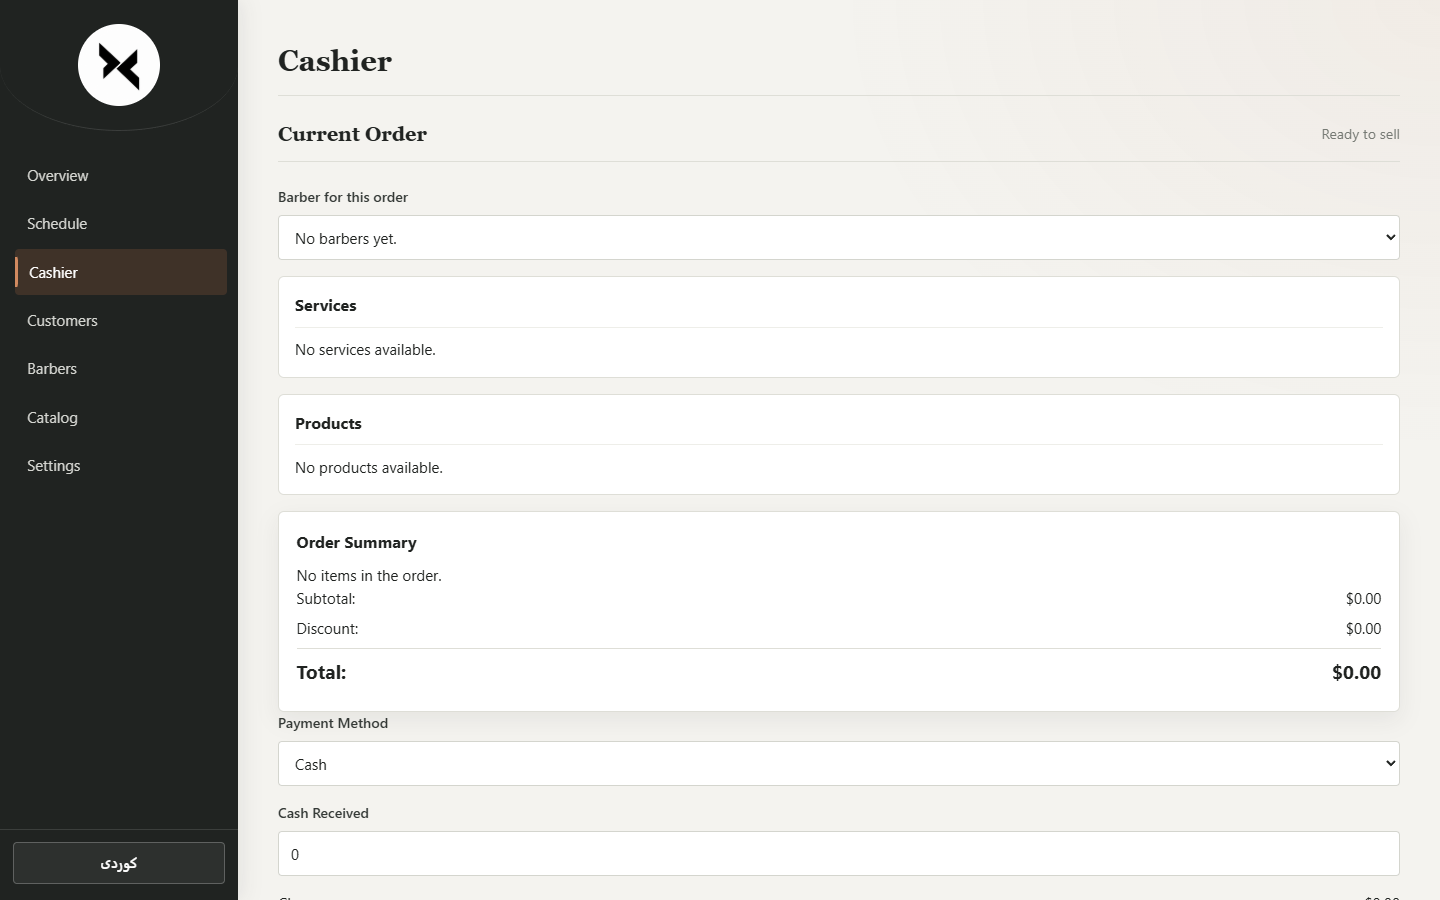
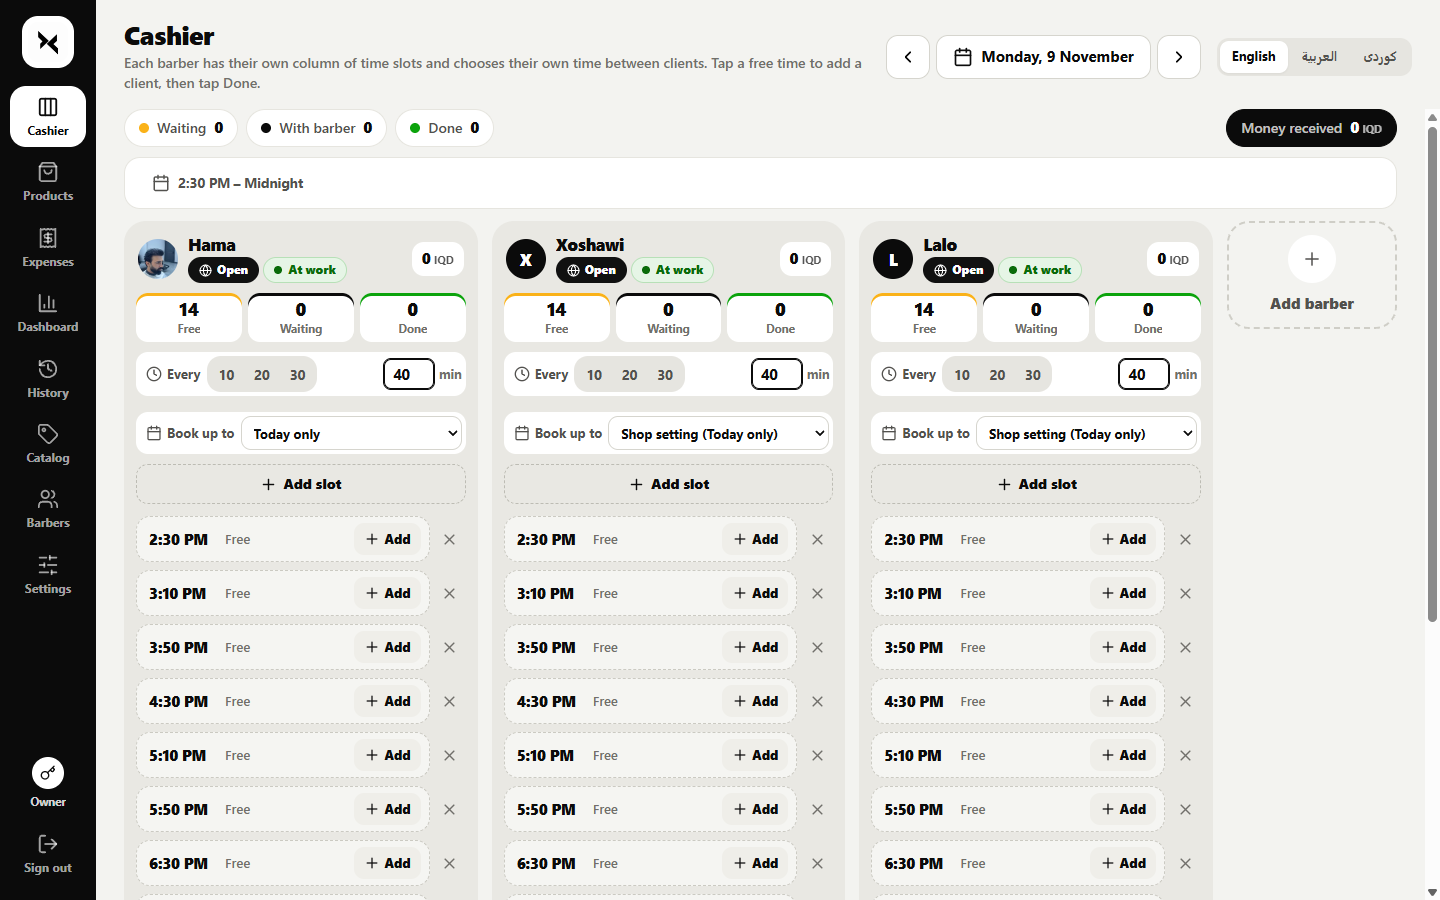
Add real admin screenshots, live X Barber link, Kurdish wording fix
- Shax Store: Storefront + Admin Panel preview tabs (11 screenshots), updated description and features
- XBARBER SHOP: live link to xbarber.duckdns.org, Booking Website + Staff Panel tabs (9 screenshots)
- Private data (customer names, emails, phones, chat ID, usernames) blurred in screenshots
- Project pages support previewGroups (one tab per group)
- Replace the Kurdish word the owner asked to remove

diff --git a/script.js b/script.js
@@ -1,128 +1,103 @@
+/* Projects shown in the showcase + project.html?id=N
+   previewGroups = tabs on the project page, each with its own screenshots.
+   (Admin screenshots have customer names, emails, phones and usernames blurred.) */
 const PROJECTS = {
   "1": {
     title: "Shax Store",
     type: "linked",
     badge: "Founder",                       // small label on the project card
     role: "Founder & Lead Developer",       // shown on project.html
-    tagline: "An online store I founded, designed and built end-to-end — storefront, admin panel and automation.",
-    languages: ["MySQL", "HTML", "CSS", "JavaScript", "Git", "AutoBot"],
+    tagline: "A live online store I founded and built end-to-end — storefront, full admin system and automation.",
+    languages: ["MySQL", "HTML", "CSS", "JavaScript", "Git", "Telegram Bot"],
     image: "Screenshot 2026-09-01 124259.png",
     link: "https://shaxstore.fit",
     code: "",
     // TODO: check these texts and adjust any detail that isn't accurate
     body: [
-      "Shax Store is my own e-commerce product. I founded it, decided what it needed to be, and led it from the first idea to a live store at shaxstore.fit — owning the product decisions, design, development and launch.",
-      "Technically it's a full-stack build: a fast, responsive storefront for customers, a private admin panel to manage products and orders, a MySQL database behind it, and an automation bot that takes repetitive work off the table. Security was part of the design from day one, not an afterthought."
+      "Shax Store is my own gym-wear brand and e-commerce platform. I founded it, decided what it needed to be, and led it from the first idea to a live store at shaxstore.fit — owning the product decisions, design, development and launch.",
+      "Behind the storefront is a complete admin system I built: products, categories and filters, order management with staff assignment, stock alerts, a storage module that tracks shipments, costs and expected profit, profit analytics per admin, customer notifications, and a Telegram bot that sends every order straight to the team's chat. It runs in Kurdish, Arabic and English, and security was part of the design from day one."
     ],
     features: [
       "Founded and led the product end-to-end — vision, design, build and launch",
-      "Responsive storefront that works on mobile and desktop",
-      "Admin panel to manage products and orders",
-      "MySQL database with a security-first setup",
-      "AutoBot automation for repetitive tasks"
+      "Responsive storefront in Kurdish, Arabic and English",
+      "Admin dashboard with live revenue, profit and cost",
+      "Order management with status tracking and staff assignment",
+      "Products, categories and filters management with stock alerts",
+      "Storage module for shipments — cost, delivery and expected profit",
+      "Telegram bot that sends every new order and status change",
+      "Notifications to customers, sponsors and admins",
+      "Role-based admin accounts with per-admin profit analytics"
     ],
-    // TODO: replace these with real screenshots of the site / admin panel + your own captions
-    previews: [
-      { 
-        image: "Screenshot 2026-09-01 124317.png", 
-        desc: "Storefront overview — the public shop page." 
-      },
-      { 
-        image: "Screenshot 2026-09-01 124348.png", 
-        desc: "Admin panel preview — manage products and orders." 
-      }
-    ],
-    // Mobile desktop previews for project
-    mobilePreviews: [
+    previewGroups: [
       {
-        image: "mobile-preview-1.png",
-        desc: "Mobile view of store homepage"
+        label: "Storefront",
+        items: [
+          { image: "Screenshot 2026-09-01 124259.png", desc: "Home — the live storefront at shaxstore.fit." },
+          { image: "shax-store-categories.png", desc: "Shop by category, then browse all products." },
+          { image: "shax-store-products.png", desc: "Product grid with colors, prices and sale prices." }
+        ]
       },
       {
-        image: "mobile-preview-2.png",
-        desc: "Mobile product listing page"
-      },
-      {
-        image: "mobile-preview-3.png", 
-        desc: "Mobile product detail view"
-      },
-      {
-        image: "mobile-preview-4.png",
-        desc: "Mobile cart functionality"
-      },
-      {
-        image: "mobile-preview-5.png",
-        desc: "Mobile checkout process"
-      },
-      {
-        image: "mobile-preview-6.png",
-        desc: "Mobile user profile section"
-      },
-      {
-        image: "mobile-preview-7.png",
-        desc: "Mobile category browsing"
-      }
-    ],
-    desktopPreviews: [
-      {
-        image: "desktop-preview-1.png",
-        desc: "Desktop store homepage"
-      },
-      {
-        image: "desktop-preview-2.png",
-        desc: "Desktop product listing grid"
-      },
-      {
-        image: "desktop-preview-3.png",
-        desc: "Desktop product detail view" 
-      },
-      {
-        image: "desktop-preview-4.png",
-        desc: "Desktop admin dashboard"
-      },
-      {
-        image: "desktop-preview-5.png",
-        desc: "Desktop order management"
-      },
-      {
-        image: "desktop-preview-6.png",
-        desc: "Desktop user account settings"
-      },
-      {
-        image: "desktop-preview-7.png",
-        desc: "Desktop category filter sidebar"
+        label: "Admin Panel",
+        items: [
+          { image: "shax-dashboard.png", desc: "Dashboard — revenue, profit, cost, orders and stock alerts at a glance." },
+          { image: "shax-orders.png", desc: "Orders — filter by status, assign to staff and update in one click." },
+          { image: "shax-products.png", desc: "Products — price, stock status and who added each item." },
+          { image: "shax-storage.png", desc: "Storage — shipments with cost, delivery and expected profit." },
+          { image: "shax-categories.png", desc: "Categories — names in English, Kurdish and Arabic." },
+          { image: "shax-filters.png", desc: "Filters — a second way to group products across stores." },
+          { image: "shax-notifications.png", desc: "Notifications — send messages to customers, sponsors and admins." },
+          { image: "shax-settings.png", desc: "Settings — Telegram bot that delivers every order to the team." }
+        ]
       }
     ]
   },
   "2": {
     title: "XBARBER SHOP",
-    type: "case",                           // desktop app — no live link
+    type: "linked",
     badge: "Founder",
     role: "Founder & Lead Developer",
-    tagline: "An offline desktop app for barber shops — POS, appointments, inventory and reports in one place.",
-    languages: ["Electron", "Node.js", "JavaScript", "HTML", "CSS", "SQLite"],
-    image: "xbarber-dashboard.png",
-    link: "",
+    tagline: "A barber-shop system: online booking website plus a full staff panel — cashier, history, expenses and reports.",
+    languages: ["JavaScript", "Node.js", "Electron", "SQLite", "HTML", "CSS"],
+    image: "xbarber-home.png",
+    link: "https://xbarber.duckdns.org",
     code: "",
     // TODO: check these texts and adjust any detail that isn't accurate
     body: [
-      "XBARBER SHOP is a desktop application I designed and built to run a barber shop from a single screen. It replaces paper books and scattered spreadsheets with one tool for the front desk: taking payments, booking appointments, tracking stock and seeing how the business is doing.",
-      "It's built with Electron and Node.js on top of a local SQLite database, so it works completely offline — no internet needed at the shop. It ships as a Windows installer, supports English and Kurdish, and includes backup and restore so the shop's data is never at risk."
+      "XBARBER SHOP is a complete system I built to run a barber shop. Customers book online in seconds — pick a barber, pick a free time, done — and the shop runs everything else from one staff panel. It's live today for XOSHAWIS STUDIO.",
+      "The staff panel gives every barber their own column of time slots, takes payments for services and products, keeps a full history of money earned per barber, tracks expenses, and shows the owner a dashboard of where the money came from. It also ships as an offline Windows desktop app built with Electron and SQLite, and the whole system works in Kurdish, Arabic and English."
     ],
     features: [
-      "POS cashier for services and products, with each order credited to a barber",
-      "Appointment scheduling with status tracking",
-      "Inventory with real-time stock updates and low-stock warnings",
-      "Customer profiles with visit history",
-      "Barber management — assign customers to one or more barbers",
-      "Reports and analytics with charts",
-      "Fully offline with a local SQLite database, plus backup & restore",
-      "Windows installer (.exe) built with electron-builder",
-      "English and Kurdish interface"
+      "Online booking website — choose a barber and a free time slot",
+      "Cashier with a separate column of time slots for every barber",
+      "Dashboard: total money, money by barber and most popular services",
+      "History of clients and money per barber, with printing",
+      "Expenses tracking, visible only to the owner",
+      "Catalog of services and products with prices and photos",
+      "Barber accounts with their own sign-in",
+      "Working hours, time between clients and booking rules in settings",
+      "Kurdish, Arabic and English — plus an offline Windows desktop version"
     ],
-    previews: [
-      { image: "xbarber-dashboard.png", desc: "Overview — live totals for customers, appointments, sales and stock." },
-      { image: "xbarber-cashier.png", desc: "Cashier — build an order, pick the barber and take payment." }
+    previewGroups: [
+      {
+        label: "Booking Website",
+        items: [
+          { image: "xbarber-home.png", desc: "Home — pick your barber and see their next free time." },
+          { image: "xbarber-booking.png", desc: "Booking — choose a day and a free slot in seconds." }
+        ]
+      },
+      {
+        label: "Staff Panel",
+        items: [
+          { image: "xbarber-dashboard.png", desc: "Dashboard — total money, money by barber and most popular services." },
+          { image: "xbarber-cashier.png", desc: "Cashier — every barber has their own column of time slots." },
+          { image: "xbarber-history.png", desc: "History — money earned and clients finished, per barber." },
+          { image: "xbarber-expenses.png", desc: "Expenses — what the shop paid, visible only to the owner." },
+          { image: "xbarber-catalog.png", desc: "Catalog — services and products with prices." },
+          { image: "xbarber-barbers.png", desc: "Barbers — add barbers and give each one a sign-in." },
+          { image: "xbarber-settings.png", desc: "Settings — language, shop details, working hours and booking rules." }
+        ]
+      }
     ]
   }
 };
@@ -240,11 +215,13 @@ function renderProject() {
   const previewsWrap = document.getElementById("project-previews");
   if (previewsWrap) {
     const previewSection = document.getElementById("preview-section");
-    const views = [
-      ["overview", "Overview", data.previews],
-      ["desktop", "Desktop View", data.desktopPreviews],
-      ["mobile", "Mobile View", data.mobilePreviews]
-    ].filter(([, , list]) => Array.isArray(list) && list.length);
+    // previewGroups: [{ label, items }] — one tab per group; plain `previews` = a single tab
+    const groups = Array.isArray(data.previewGroups)
+      ? data.previewGroups
+      : [{ label: "Overview", items: data.previews }];
+    const views = groups
+      .map((g, i) => [`g${i}`, g.label, g.items])
+      .filter(([, , list]) => Array.isArray(list) && list.length);
 
     if (!views.length) {
       if (previewSection) previewSection.style.display = "none";
@@ -760,7 +737,7 @@ const PROCESS = [
   {
     title: "Build at AI Speed",
     desc: "Develop full-stack with prompt-engineered AI workflows — fast, clean and secure.",
-    ku: { title: "دروستکردن بە خێرایی AI", desc: "گەشەپێدانی فول-ستاک بە ڕێکخستنی AI و پرۆمپتی ئەندازیاریکراو — خێرا، پاک و پارێزراو." }
+    ku: { title: "دروستکردن بە خێرایی AI", desc: "گەشەپێدانی فول-ستاک بە یارمەتی AI و پرۆمپتی ورد — خێرا، پاک و پارێزراو." }
   },
   {
     title: "Launch & Lead",
@@ -873,7 +850,7 @@ const I18N = {
     ctaTalk: "با قسە بکەین",
     statYears: "ساڵ دروستکردنی سۆفتوێر",
     statFounderVal: "دامەزرێنەر",
-    statAI: "کارکردن بە پرۆمپتی ئەندازیاریکراو",
+    statAI: "کارکردن بە پرۆمپتی AI",
     scrollLbl: "بۆ خوارەوە",
     aboutEyebrow: "٠١ — چی دەکەم",
     aboutTitle: "زیاتر لە تەنها کۆد",

diff --git a/AGENTS.md b/AGENTS.md
@@ -56,7 +56,9 @@ Keys = category slugs used as `links.html?cat=KEY`. Current keys: adobe, microso
 - Hint lines: sensible defaults in place, owner should personalize
 - Skill bars: static HTML in index.html Tech Stack panel — owner edits names + `--lvl` percentages inline
 - Project "Shax Store" (id 1) is real: link https://shaxstore.fit, image "Screenshot 2026-08-23 235605.png" — body text and features still placeholder
-- Project "XBARBER SHOP" (id 2, type "case") = owner's Electron + SQLite barber-shop desktop app (source in ../x barber/xbarber-shop). Images `xbarber-dashboard.png` / `xbarber-cashier.png` were screenshotted from the app's built-in demo mode (empty data); owner can swap in shots with real data
+- Project "XBARBER SHOP" (id 2, type "linked", https://xbarber.duckdns.org) = barber-shop system: public booking site (live for XOSHAWIS STUDIO) + staff panel; also an Electron + SQLite desktop app (source in ../x barber/xbarber-shop)
+- Projects use `previewGroups: [{ label, items: [{ image, desc }] }]` → one tab per group on project.html (Shax: Storefront / Admin Panel; X Barber: Booking Website / Staff Panel). Screenshots `shax-*.png` / `xbarber-*.png` are real admin captures (Nov 2026) with customer names, emails, phones, Telegram chat ID and barber usernames BLURRED — keep blurring private data in any new admin screenshots; never put admin credentials in the repo
+- Owner dislikes the Kurdish word "ئەندازیاریکراو" — don't use it
 - `project1.png` is a copy of that screenshot kept as a spare
 - Only first resource card in useful.html had a real link — owner added Minecraft (2nd card); placeholders removed Aug 2026
 
